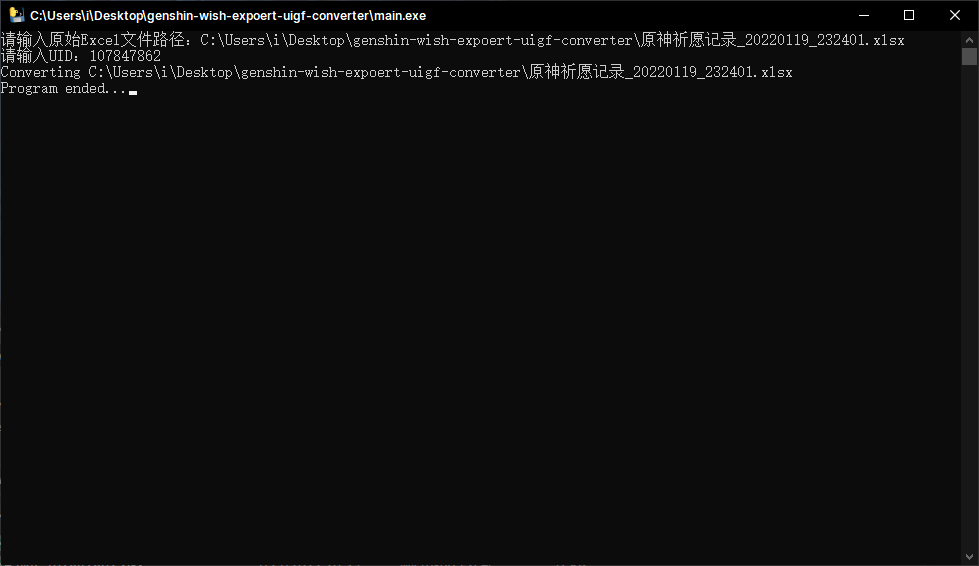
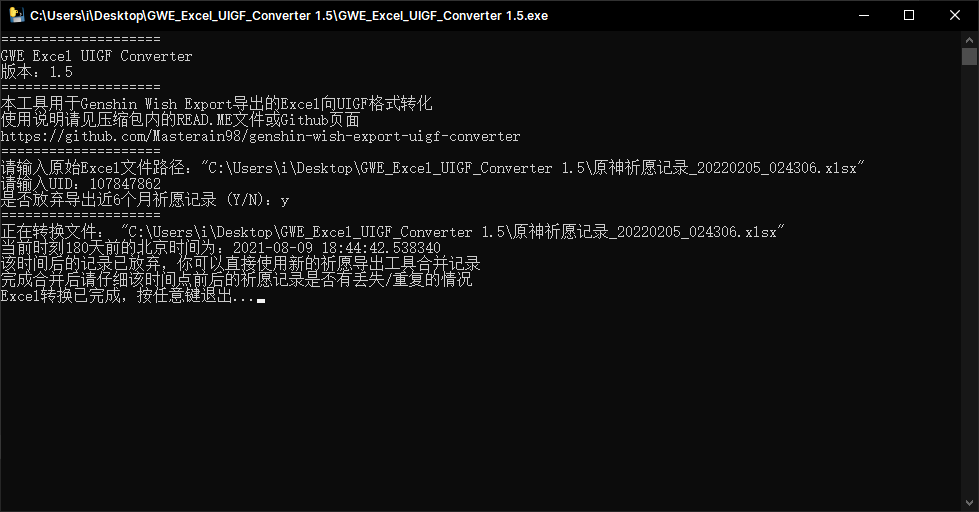
1.5 版本

diff --git a/main.py b/main.py
@@ -3,10 +3,14 @@ import pandas as pd
 
 
 def converter(fileName, user_uid):
-    print("正在转换文件： " + fileName)
-
     # Debug variable only used for dev purpose
     debug = False
+
+    print("正在转换文件： " + fileName)
+    if fileName[0] == "\"":
+        fileName = fileName.replace("\"", "")
+        if debug:
+            print("New file name: " + fileName)
 
     # Generate DataFrame
     df1 = pd.read_excel(fileName, sheet_name='角色活动祈愿')
@@ -100,8 +104,9 @@ def converter(fileName, user_uid):
     MergedDF.drop(columns='pity_count', inplace=True)
 
     # Resort Columns
-    MergedDF = MergedDF[['count', 'gacha_type', 'id', 'item_id', 'item_type', 'lang', 'name', 'rank_type', 'time', 'uid',
-                   'uigf_gacha_type']]
+    MergedDF = MergedDF[
+        ['count', 'gacha_type', 'id', 'item_id', 'item_type', 'lang', 'name', 'rank_type', 'time', 'uid',
+         'uigf_gacha_type']]
 
     # Reset all cell data type to string
     MergedDF['count'] = MergedDF['count'].astype(str)
@@ -129,8 +134,10 @@ def converter(fileName, user_uid):
         if debug:
             print(datetime.fromisoformat(MergedDF.iloc[0]['time']))
             print(datetime.fromisoformat(MergedDF.iloc[0]['time']) > pastSixMonthCST)
-            MergedDF.loc[MergedDF.time.apply(lambda x: True if datetime.fromisoformat(x) > pastSixMonthCST else False), 'PastSixMonth'] = 'True'
-        MergedDF.drop(MergedDF[MergedDF.time.apply(lambda x: True if datetime.fromisoformat(x) > pastSixMonthCST else False)].index, inplace= True)
+            MergedDF.loc[MergedDF.time.apply(
+                lambda x: True if datetime.fromisoformat(x) > pastSixMonthCST else False), 'PastSixMonth'] = 'True'
+        MergedDF.drop(MergedDF[MergedDF.time.apply(
+            lambda x: True if datetime.fromisoformat(x) > pastSixMonthCST else False)].index, inplace=True)
     else:
         print("导出的祈愿记录包含了近6个月祈愿记录，请注意在未来可能出现记录重复的问题")
 
@@ -141,17 +148,21 @@ def converter(fileName, user_uid):
 
 if __name__ == '__main__':
     print("=" * 20)
-    print("GWE Excel UIGF Converter")
-    print("版本：1.4")
+    print("Genshin Wish Export UIGF Converter")
+    print("版本：1.5")
+    print("发布于：https://github.com/Masterain98/genshin-wish-export-uigf-converter")
     print("=" * 20)
     print("本工具用于Genshin Wish Export导出的Excel向UIGF格式转化")
-    print("使用说明请见压缩包内的READ.ME文件或Github页面")
-    print("https://github.com/Masterain98/genshin-wish-export-uigf-converter")
-    print("="*20)
+    print("本目录下README.md为使用指南")
+    print("完整使用方法请阅读：https://sgdocs.irain.in/FAQ/transfer-from-other-wish-export.html")
+    print("=" * 20)
     original_xlsx_name = input("请输入原始Excel文件路径：")
     user_uid_input = input("请输入UID：")
+    print("\n" + "*"*5 + " [强烈建议放弃] 近6个月祈愿数据 " + "*"*5)
+    print("*" * 5 + " 原因请读取说明文档 " + "*" * 5)
     six_month_skip = input("是否放弃导出近6个月祈愿记录 (Y/N)：").lower()
     while six_month_skip != "y" and six_month_skip != "n":
         six_month_skip = input("是否放弃导出近6个月祈愿记录 (Y/N)：").lower()
+    print("=" * 20)
     converter(original_xlsx_name, user_uid_input)
     input("Excel转换已完成，按任意键退出...")

diff --git a/README.md b/README.md
@@ -13,15 +13,15 @@ A Python tool to convert genshin-wish-expoert data to UIGF format
 1. 运行程序
 2. 拖入`genshin-wish-expoert`导出的Excel文件，或者手动输入该文件的路径（同目录下只需输入该文件的文件名）
 3. 输入你的游戏 UID
-4. 选择是否放弃近6个月的祈愿记录
-   1. 如果不放弃，则在使用新的祈愿导出工具时会出现祈愿记录重复的情况
-   2. 如果放弃，请在使用新的祈愿导出工具时获取全部祈愿记录，并手动检查对应时间点前后是否有数据重复/丢失
-5. 等待程序运行完成
+4. 1. 选择是否放弃近6个月的祈愿记录**（建议放弃）**
+      1. 如果不放弃，则在使用新的祈愿导出工具时会出现祈愿记录重复的情况
+      2. 如果放弃，6个月内的数据可以由新使用的祈愿导出工具重新从原神服务器获取
+5. 等待程序运行完成，导出文件名为`uigf_游戏UID.xlsx`
 
-![](https://github.com/Masterain98/genshin-wish-expoert-uigf-converter/blob/main/how_to_use.gif?raw=true)
+![](how-to-use.gif)
 
 ## 截图
 
-![](https://github.com/Masterain98/genshin-wish-expoert-uigf-converter/blob/main/screenshot1.png?raw=true)
+![](screenshot1.png)
 
-![](https://github.com/Masterain98/genshin-wish-expoert-uigf-converter/blob/main/screenshot2.png?raw=true)
+![](screenshot2.png)
